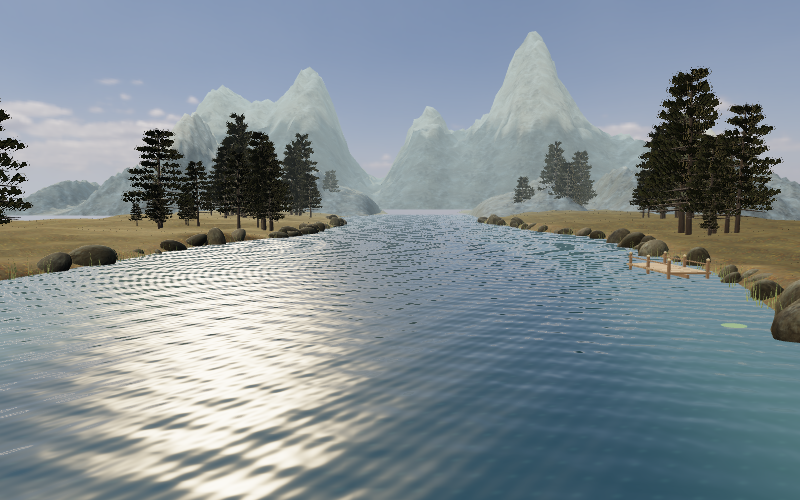
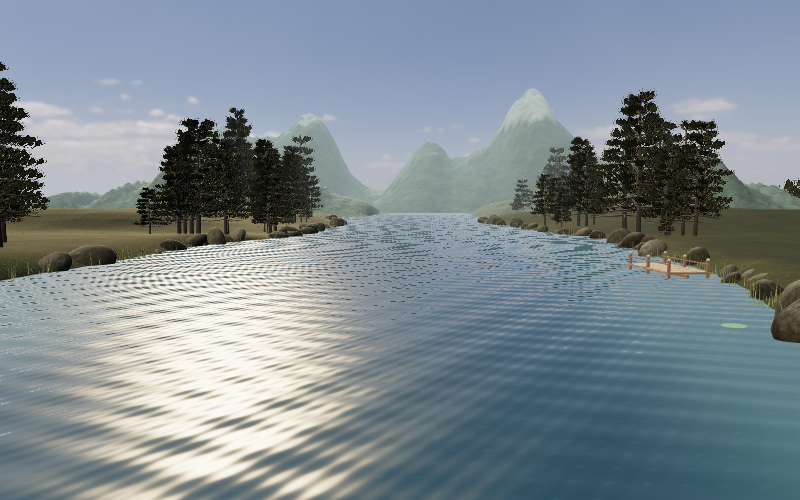
Verify scene readiness, recover graphics and finish stage previews

diff --git a/e2e/visual-evidence.spec.js b/e2e/visual-evidence.spec.js
@@ -1,72 +1,112 @@
-import { test, expect } from '@playwright/test';
-import { mkdir } from 'node:fs/promises';
+import { test, expect } from "@playwright/test";
+import { mkdir } from "node:fs/promises";
 
 // Opt-in art/visual acceptance run. Screenshots are evidence, never an FPS claim.
-test.skip(!process.env.VISUAL_EVIDENCE, 'Run with VISUAL_EVIDENCE=1 after the final art build.');
+test.skip(!process.env.VISUAL_EVIDENCE, "Run with VISUAL_EVIDENCE=1 after the final art build.");
 test.use({ viewport: { width: 1440, height: 900 } });
-test('capture complete desktop and mobile screen evidence', async ({ page }) => {
+test("capture complete desktop and mobile screen evidence", async ({ page }) => {
   test.setTimeout(240_000);
-  const folder = 'docs/evidence/local';
+  const folder = "docs/evidence/local";
   await mkdir(folder, { recursive: true });
   const errors = [];
-  page.on('pageerror', error => errors.push(error.message));
+  page.on("pageerror", (error) => errors.push(error.message));
   const ready = async () => {
-    await expect(page.locator('.scene-layer')).toHaveAttribute('data-scene-state', 'ready', { timeout: 60_000 });
-    await page.evaluate(() => new Promise(resolve => requestAnimationFrame(() => requestAnimationFrame(resolve))));
+    await expect(page.locator(".scene-layer")).toHaveAttribute("data-scene-state", "ready", {
+      timeout: 60_000,
+    });
+    await page.evaluate(
+      () => new Promise((resolve) => requestAnimationFrame(() => requestAnimationFrame(resolve))),
+    );
   };
-  const capture = async name => { await ready(); await page.screenshot({ path: `${folder}/${name}.png`, fullPage: true }); };
-  await page.goto(process.env.QA_BASE_URL || '/');
-  await capture('home-desktop');
-  await page.getByRole('button', { name: 'Play Race', exact: true }).first().click();
-  await page.getByLabel('Race entries', { exact: true }).fill('Maple\nWillow\nRiver\nSnow\nPebble\nCobalt');
-  await capture('setup-desktop');
-  await page.getByRole('button', { name: 'Duck Garage', exact: true }).first().click();
-  for (const breed of ['Mallard', 'White Pekin', 'Khaki Campbell', 'Mandarin', 'Runner']) {
-    await page.getByRole('button', { name: breed, exact: true }).click();
-    await capture(`breed-${breed.toLowerCase().replaceAll(' ', '-')}`);
+  const capture = async (name) => {
+    await ready();
+    await page.screenshot({ path: `${folder}/${name}.png`, fullPage: true });
+  };
+  await page.goto(process.env.QA_BASE_URL || "/");
+  await capture("home-desktop");
+  await page.getByRole("button", { name: "Play Race", exact: true }).first().click();
+  await page
+    .getByLabel("Race entries", { exact: true })
+    .fill("Maple\nWillow\nRiver\nSnow\nPebble\nCobalt");
+  await capture("setup-desktop");
+  await page.getByRole("button", { name: "Duck Garage", exact: true }).first().click();
+  for (const breed of ["Mallard", "White Pekin", "Khaki Campbell", "Mandarin", "Runner"]) {
+    await page.getByRole("button", { name: breed, exact: true }).click();
+    await capture(`breed-${breed.toLowerCase().replaceAll(" ", "-")}`);
   }
-  await page.getByRole('button', { name: 'Mallard', exact: true }).click();
-  await page.getByRole('button', { name: 'Explorer Hat', exact: true }).click();
-  await capture('garage-desktop');
-  await page.getByRole('button', { name: 'Stages', exact: true }).first().click();
-  await capture('stages-desktop');
-  for (const stage of ['Forest Lake', 'Mountain River', 'Lotus Pond', 'Sunset Marsh', 'Village Canal']) {
-    await page.getByRole('button', { name: new RegExp(stage) }).click();
-    await capture(`stage-${stage.toLowerCase().replaceAll(' ', '-')}`);
+  await page.getByRole("button", { name: "Mallard", exact: true }).click();
+  await page.getByRole("button", { name: "Explorer Hat", exact: true }).click();
+  await capture("garage-desktop");
+  await page.getByRole("button", { name: "Stages", exact: true }).first().click();
+  await capture("stages-desktop");
+  for (const stage of [
+    "Forest Lake",
+    "Mountain River",
+    "Lotus Pond",
+    "Sunset Marsh",
+    "Village Canal",
+  ]) {
+    await page.getByRole("button", { name: new RegExp(stage) }).click();
+    await capture(`stage-${stage.toLowerCase().replaceAll(" ", "-")}`);
   }
-  await page.getByRole('button', { name: /Forest Lake/ }).click();
-  await page.getByRole('button', { name: 'Continue to Race' }).click();
-  await page.getByLabel('Race duration').selectOption('10');
-  await page.getByRole('button', { name: 'Start Race', exact: true }).click();
-  await expect(page.locator('.scene-layer')).toHaveAttribute('data-phase', 'racing', { timeout: 60_000 });
-  await capture('race-desktop');
-  await expect(page.getByRole('heading', { name: 'Results', exact: true })).toBeVisible({ timeout: 30_000 });
-  await capture('results-desktop');
-  await page.getByRole('button', { name: 'Settings', exact: true }).first().click();
-  await capture('settings-desktop');
+  await page.getByRole("button", { name: /Forest Lake/ }).click();
+  await page.getByRole("button", { name: "Continue to Race" }).click();
+  await page.getByLabel("Race duration").selectOption("10");
+  await page.getByRole("button", { name: "Start Race", exact: true }).click();
+  await expect(page.locator(".scene-layer")).toHaveAttribute("data-phase", "racing", {
+    timeout: 60_000,
+  });
+  await capture("race-desktop");
+  await expect(page.getByRole("heading", { name: "Results", exact: true })).toBeVisible({
+    timeout: 30_000,
+  });
+  await capture("results-desktop");
+  await page.getByRole("button", { name: "Settings", exact: true }).first().click();
+  await capture("settings-desktop");
   await page.setViewportSize({ width: 390, height: 844 });
-  for (const [screen, button] of [['home', 'Home'], ['setup', 'Play Race'], ['garage', 'Duck Garage'], ['stages', 'Stages'], ['results', 'Results'], ['settings', 'Settings']]) {
-    await page.getByRole('button', { name: 'Open menu' }).click();
-    await page.getByRole('navigation').getByRole('button', { name: button, exact: true }).click();
+  for (const [screen, button] of [
+    ["home", "Home"],
+    ["setup", "Play Race"],
+    ["garage", "Duck Garage"],
+    ["stages", "Stages"],
+    ["results", "Results"],
+    ["settings", "Settings"],
+  ]) {
+    await page.getByRole("button", { name: "Open menu" }).click();
+    await page.getByRole("navigation").getByRole("button", { name: button, exact: true }).click();
     await capture(`${screen}-mobile`);
-    expect(await page.evaluate(() => document.documentElement.scrollWidth - innerWidth)).toBeLessThanOrEqual(1);
+    expect(
+      await page.evaluate(() => document.documentElement.scrollWidth - innerWidth),
+    ).toBeLessThanOrEqual(1);
   }
   expect(errors).toEqual([]);
 });
 
-test('capture stage thumbnails directly from the 3D scene', async ({ page }) => {
-  test.skip(!process.env.CAPTURE_STAGE_ASSETS, 'Only author thumbnails from the local development scene.');
-  test.setTimeout(90_000);
-  await mkdir('public/assets/stages', { recursive: true });
+test("capture stage thumbnails directly from the 3D scene", async ({ page }) => {
+  test.skip(
+    !process.env.CAPTURE_STAGE_ASSETS,
+    "Only author thumbnails from the local development scene.",
+  );
+  test.setTimeout(240_000);
+  await mkdir("public/assets/stages", { recursive: true });
   await page.setViewportSize({ width: 800, height: 500 });
-  await page.goto('http://127.0.0.1:5173/scripts/qa/scene-preview.html');
-  await page.getByLabel('Screen', { exact: true }).selectOption('stages');
-  for (const stage of ['forest-lake', 'mountain-river', 'lotus-pond', 'sunset-marsh', 'village-canal']) {
-    await page.getByLabel('Stage', { exact: true }).selectOption(stage);
-    await expect(page.locator('output')).toContainText(`"stage":"${stage}"`, { timeout: 60_000 });
-    const style = await page.addStyleTag({ content: 'nav,output{visibility:hidden!important}' });
-    await page.evaluate(() => new Promise(resolve => requestAnimationFrame(() => requestAnimationFrame(resolve))));
+  await page.goto("http://127.0.0.1:5173/scripts/qa/scene-preview.html");
+  await page.getByLabel("Quality", { exact: true }).selectOption("low");
+  await page.getByLabel("Screen", { exact: true }).selectOption("stages");
+  for (const stage of [
+    "forest-lake",
+    "mountain-river",
+    "lotus-pond",
+    "sunset-marsh",
+    "village-canal",
+  ]) {
+    await page.getByLabel("Stage", { exact: true }).selectOption(stage);
+    await expect(page.locator("output")).toContainText(`"stage":"${stage}"`, { timeout: 60_000 });
+    const style = await page.addStyleTag({ content: "nav,output{visibility:hidden!important}" });
+    await page.evaluate(
+      () => new Promise((resolve) => requestAnimationFrame(() => requestAnimationFrame(resolve))),
+    );
     await page.screenshot({ path: `public/assets/stages/${stage}.png` });
-    await style.evaluate(element => element.remove());
+    await style.evaluate((element) => element.remove());
   }
 });

diff --git a/e2e/smoke.spec.js b/e2e/smoke.spec.js
@@ -1,10 +1,21 @@
 import { test, expect } from '@playwright/test';
 async function setup(page) { await page.goto('/'); await page.getByRole('button', { name: 'Play Race', exact: true }).first().click(); }
+
+test('instant shortcut works from a focused control but not while typing entries', async ({ page }) => {
+  await setup(page);
+  await page.getByLabel('Race entries').fill('A\nB');
+  await page.keyboard.press('i');
+  await expect(page.getByRole('heading', { name: 'Race Setup', exact: true })).toBeVisible();
+  await page.getByLabel('Race entries').fill('A\nB');
+  await page.getByRole('button', { name: 'Home', exact: true }).focus();
+  await page.keyboard.press('i');
+  await expect(page.locator('.result-list li')).toHaveCount(2);
+});
 test('loads home title and exactly one 3D renderer', async ({ page }) => { await page.goto('/'); await expect(page).toHaveTitle(/Duck Race Randomizer/); await expect(page.getByLabel('Real 3D duck race track')).toBeVisible(); await expect(page.locator('canvas')).toHaveCount(1); await page.screenshot({ path: 'test-results/home.png' }); });
 test('overlay route displays one scene and hides navigation', async ({ page }) => { await page.goto('/?view=overlay'); await expect(page.getByRole('heading', { name: 'Audience Mode' })).toBeVisible(); await expect(page.getByRole('navigation')).toHaveCount(0); await expect(page.getByLabel('Real 3D duck race track')).toHaveCount(1); });
 test('manual entries persist across reload', async ({ page }) => { await setup(page); await page.getByLabel('Race entries').fill('Alpha\nBeta\nGamma'); await page.reload(); await page.getByRole('button', { name: 'Play Race', exact: true }).first().click(); await expect(page.getByLabel('Race entries')).toHaveValue('Alpha\nBeta\nGamma'); });
 test('number generator creates sequence and bounds large input', async ({ page }) => { await setup(page); await page.getByText('Advanced options', { exact: true }).click(); await page.getByPlaceholder('Start', { exact: true }).fill('1'); await page.getByPlaceholder('End', { exact: true }).fill('4'); await page.getByPlaceholder('Prefix', { exact: true }).fill('Duck '); await page.getByRole('button', { name: 'Generate', exact: true }).click(); await expect(page.getByLabel('Race entries')).toHaveValue('Duck 1\nDuck 2\nDuck 3\nDuck 4'); await page.getByPlaceholder('End', { exact: true }).fill('10000000000'); await page.getByRole('button', { name: 'Generate', exact: true }).click(); await expect(page.getByText('Use whole numbers defining no more than 100 entries.')).toBeVisible(); });
-test('timed race finishes even after clock advances across suspended interval', async ({ page }) => { await setup(page); await page.getByLabel('Race duration').selectOption('3'); await page.getByRole('button', { name: 'Start Race', exact: true }).click(); await expect(page.getByLabel('Real 3D duck race track')).toHaveAttribute('data-racing', 'true'); await expect(page.getByRole('heading', { name: 'Results', exact: true })).toBeVisible({ timeout: 30000 }); await expect(page.getByLabel('Real 3D duck race track')).toHaveAttribute('data-winner-progress', '100'); await expect(page.locator('.result-list li')).toHaveCount(6); });
+test('timed race finishes with complete ranking', async ({ page }) => { await setup(page); await page.getByLabel('Race duration').selectOption('3'); await page.getByRole('button', { name: 'Start Race', exact: true }).click(); await expect(page.getByLabel('Real 3D duck race track')).toHaveAttribute('data-racing', 'true'); await expect(page.getByRole('heading', { name: 'Results', exact: true })).toBeVisible({ timeout: 30000 }); await expect(page.getByLabel('Real 3D duck race track')).toHaveAttribute('data-winner-progress', '100'); await expect(page.locator('.result-list li')).toHaveCount(6); });
 test('app shell and entries work offline after service worker activates', async ({ page, context }) => { await setup(page); await page.getByLabel('Race entries').fill('Saved A\nSaved B'); await page.evaluate(() => navigator.serviceWorker.ready); await page.reload(); await context.setOffline(true); await page.reload(); await expect(page.getByRole('heading', { name: 'Duck Race', exact: true })).toBeVisible(); await page.getByRole('button', { name: 'Play Race', exact: true }).first().click(); await expect(page.getByLabel('Race entries')).toHaveValue('Saved A\nSaved B'); await page.getByRole('button', { name: 'Instant Pick', exact: true }).click(); await expect(page.locator('.result-list li')).toHaveCount(2); });
 test('WebGL failure preserves randomizer workflow', async ({ page }) => { await page.addInitScript(() => { const get = HTMLCanvasElement.prototype.getContext; HTMLCanvasElement.prototype.getContext = function(type, ...args) { return type.startsWith('webgl') ? null : get.call(this, type, ...args); }; }); await setup(page); await page.getByRole('button', { name: 'Instant Pick', exact: true }).click(); await expect(page.locator('.result-list li')).toHaveCount(6); });
 

diff --git a/e2e/recovery.spec.js b/e2e/recovery.spec.js
@@ -1,0 +1,49 @@
+import { test, expect } from "@playwright/test";
+
+test("a failed duck download can be retried without losing the entry pool", async ({ page }) => {
+  let blocked = true;
+  await page.route(/\/ducks\/.*\.glb$/, (route) =>
+    blocked ? route.abort("failed") : route.continue(),
+  );
+  await page.goto("/");
+  await expect(page.getByRole("alert")).toContainText("3D view unavailable");
+  await page.getByRole("button", { name: "Use randomizer", exact: true }).click();
+  await page.getByLabel("Race entries").fill("Recovery Maple\nRecovery River");
+  blocked = false;
+  await page.getByRole("button", { name: "Retry 3D", exact: true }).click();
+  await expect(page.locator(".scene-layer")).toHaveAttribute("data-scene-state", "ready", {
+    timeout: 45_000,
+  });
+  await expect(page.getByLabel("Race entries")).toHaveValue("Recovery Maple\nRecovery River");
+  await page.getByRole("button", { name: "Instant Pick", exact: true }).click();
+  await expect(page.locator(".result-list li")).toHaveCount(2);
+});
+
+test("WebGL context recovery retains the saved result", async ({ page }) => {
+  await page.goto("/");
+  await expect(page.locator(".scene-layer")).toHaveAttribute("data-scene-state", "ready", {
+    timeout: 45_000,
+  });
+  await page.getByRole("button", { name: "Play Race", exact: true }).first().click();
+  await page.getByRole("button", { name: "Instant Pick", exact: true }).click();
+  const names = await page.locator(".result-name").allTextContents();
+  const supported = await page.locator("canvas").evaluate((canvas) => {
+    const gl = canvas.getContext("webgl2") || canvas.getContext("webgl");
+    const extension = gl?.getExtension("WEBGL_lose_context");
+    if (!extension) return false;
+    extension.loseContext();
+    return true;
+  });
+  test.skip(!supported, "Browser does not expose the WebGL context-loss testing extension.");
+  await expect(page.getByRole("alert")).toContainText("3D view unavailable");
+  await page.getByRole("button", { name: "Retry 3D", exact: true }).click();
+  await expect(page.locator(".scene-layer")).toHaveAttribute("data-scene-state", "ready", {
+    timeout: 45_000,
+  });
+  expect(await page.locator(".result-name").allTextContents()).toEqual(names);
+  expect(
+    await page.evaluate(
+      () => JSON.parse(localStorage.getItem("duck-race-randomizer:v3")).history.length,
+    ),
+  ).toBe(1);
+});

diff --git a/src/App.jsx b/src/App.jsx
@@ -1,4 +1,4 @@
-import { lazy, Suspense, useCallback, useEffect, useMemo, useState } from "react";
+import { lazy, Suspense, useCallback, useEffect, useMemo, useRef, useState } from "react";
 import { Home, Menu, Mountain, Play, Settings, Trophy, X } from "lucide-react";
 import useRaceSession from "./lib/useRaceSession.js";
 import { BREEDS, STAGES } from "./lib/catalog.js";
@@ -30,16 +30,21 @@ export default function App() {
     () => window.matchMedia("(prefers-reduced-motion: reduce)").matches,
   );
   const { sceneReady, sceneFailed } = s;
+  const sceneFailure = useRef(false);
   const onReady = useCallback(
     (info) => {
+      if (sceneFailure.current) return;
       setSceneState("ready");
-      if (info?.screen === "race") sceneReady();
+      sceneReady(info?.screen === "race");
     },
     [sceneReady],
   );
-  const onLoading = useCallback(() => setSceneState("loading"), []);
+  const onLoading = useCallback(() => {
+    if (!sceneFailure.current) setSceneState("loading");
+  }, []);
   const onError = useCallback(
     (e) => {
+      sceneFailure.current = true;
       setSceneState("error");
       setSceneError(e?.message || "3D rendering is unavailable.");
       sceneFailed();
@@ -225,9 +230,21 @@ export default function App() {
           <p>{sceneError} Your entries and randomizer remain available.</p>
           <div className="button-row">
             <Button
-              onClick={() => {
-                setSceneState("loading");
-                setSceneKey((k) => k + 1);
+              onClick={async () => {
+                try {
+                  const { clearFailedSceneLoads } = await import("./lib/retryScene.js");
+                  clearFailedSceneLoads(
+                    s.screen,
+                    sceneData.participants,
+                    sceneData.appearances,
+                    sceneRecord?.stage || o.stage,
+                  );
+                  sceneFailure.current = false;
+                  setSceneState("loading");
+                  setSceneKey((k) => k + 1);
+                } catch (error) {
+                  onError(error);
+                }
               }}
             >
               Retry 3D

diff --git a/src/lib/useRaceSession.js b/src/lib/useRaceSession.js
@@ -34,9 +34,9 @@ export default function useRaceSession() {
     locked = useRef(false),
     audio = useRef(null);
   const rendererUnavailable = useRef(false);
-  const sceneReady = useCallback(() => {
+  const sceneReady = useCallback((raceScene = false) => {
     rendererUnavailable.current = false;
-    clock.current?.begin?.();
+    if (raceScene) clock.current?.begin?.();
   }, []);
   const sceneFailed = useCallback(() => {
     rendererUnavailable.current = true;
@@ -144,7 +144,7 @@ export default function useRaceSession() {
           osc.frequency.value = freq;
           gain.gain.setValueAtTime(0.0001, at);
           gain.gain.exponentialRampToValueAtTime(volume, at + 0.015);
-          gain.gain.exponentialRampToValueAtTime(0.0001, at + (minimal ? 0.10 : 0.25));
+          gain.gain.exponentialRampToValueAtTime(0.0001, at + (minimal ? 0.1 : 0.25));
           osc.connect(gain);
           gain.connect(ctx.destination);
           osc.start(at);
@@ -340,7 +340,7 @@ export default function useRaceSession() {
         e.metaKey ||
         e.altKey ||
         e.target?.isContentEditable ||
-        ["INPUT", "TEXTAREA", "SELECT", "BUTTON"].includes(e.target?.tagName)
+        ["INPUT", "TEXTAREA", "SELECT"].includes(e.target?.tagName)
       )
         return;
       if (e.key.toLowerCase() === "r") {

diff --git a/src/lib/retryScene.js b/src/lib/retryScene.js
@@ -1,0 +1,22 @@
+import { useEnvironment, useGLTF, useTexture } from "@react-three/drei";
+import { assetUrl, skyAssetUrl } from "../scene/assetUrl.js";
+import { duckAssetPlan, duckAssetUrls } from "../scene/duckAssets.js";
+
+// Suspense caches rejected promises too. A remount alone cannot retry a failed download.
+export function clearFailedSceneLoads(screen, participants, appearances, stage) {
+  const urls = duckAssetUrls(duckAssetPlan(screen, participants, appearances));
+  if (urls.length) useGLTF.clear(urls);
+  useEnvironment.clear({ files: skyAssetUrl(stage) });
+  useTexture.clear(
+    [
+      "rock-color.jpg",
+      "rock-normal.jpg",
+      "ground-color.jpg",
+      "ground-normal.jpg",
+      "pine-twig-color.jpg",
+      "pine-twig-alpha.jpg",
+      "pine-bark-color.jpg",
+      "pine-bark-normal.jpg",
+    ].map((name) => assetUrl(`/assets/environment/${name}`)),
+  );
+}

diff --git a/src/components/design.jsx b/src/components/design.jsx
@@ -16,7 +16,7 @@ export function Button({ children, icon: Icon, primary, className = "", ...props
     </button>
   );
 }
-export function Toggle({ label, checked, onChange, description }) {
+export function Toggle({ label, checked, onChange, description, disabled = false }) {
   return (
     <label className="toggle-row">
       <span>
@@ -26,6 +26,7 @@ export function Toggle({ label, checked, onChange, description }) {
       <input
         type="checkbox"
         role="switch"
+        disabled={disabled}
         checked={checked}
         onChange={(e) => onChange(e.target.checked)}
       />

diff --git a/src/components/SettingsScreen.jsx b/src/components/SettingsScreen.jsx
@@ -66,6 +66,7 @@ export default function SettingsScreen({ session: s, navigate, systemMotion }) {
                 label="Reduced motion"
                 description="Reduce camera motion and visual effects."
                 checked={o.reducedMotion || systemMotion}
+                disabled={systemMotion}
                 onChange={(reducedMotion) => patch({ reducedMotion })}
               />
               {systemMotion && <p className="muted">Your system requests reduced motion.</p>}

diff --git a/public/sw.js b/public/sw.js
@@ -34,6 +34,7 @@ self.addEventListener('fetch', (event) => {
     return;
   }
   if (url.origin !== self.location.origin) return;
+  if (url.pathname === '/release.json' || url.pathname === '/sw.js') return;
 
   // Navigations (including /?audience=1 share links): network first,
   // fall back to the cached app shell when offline.
